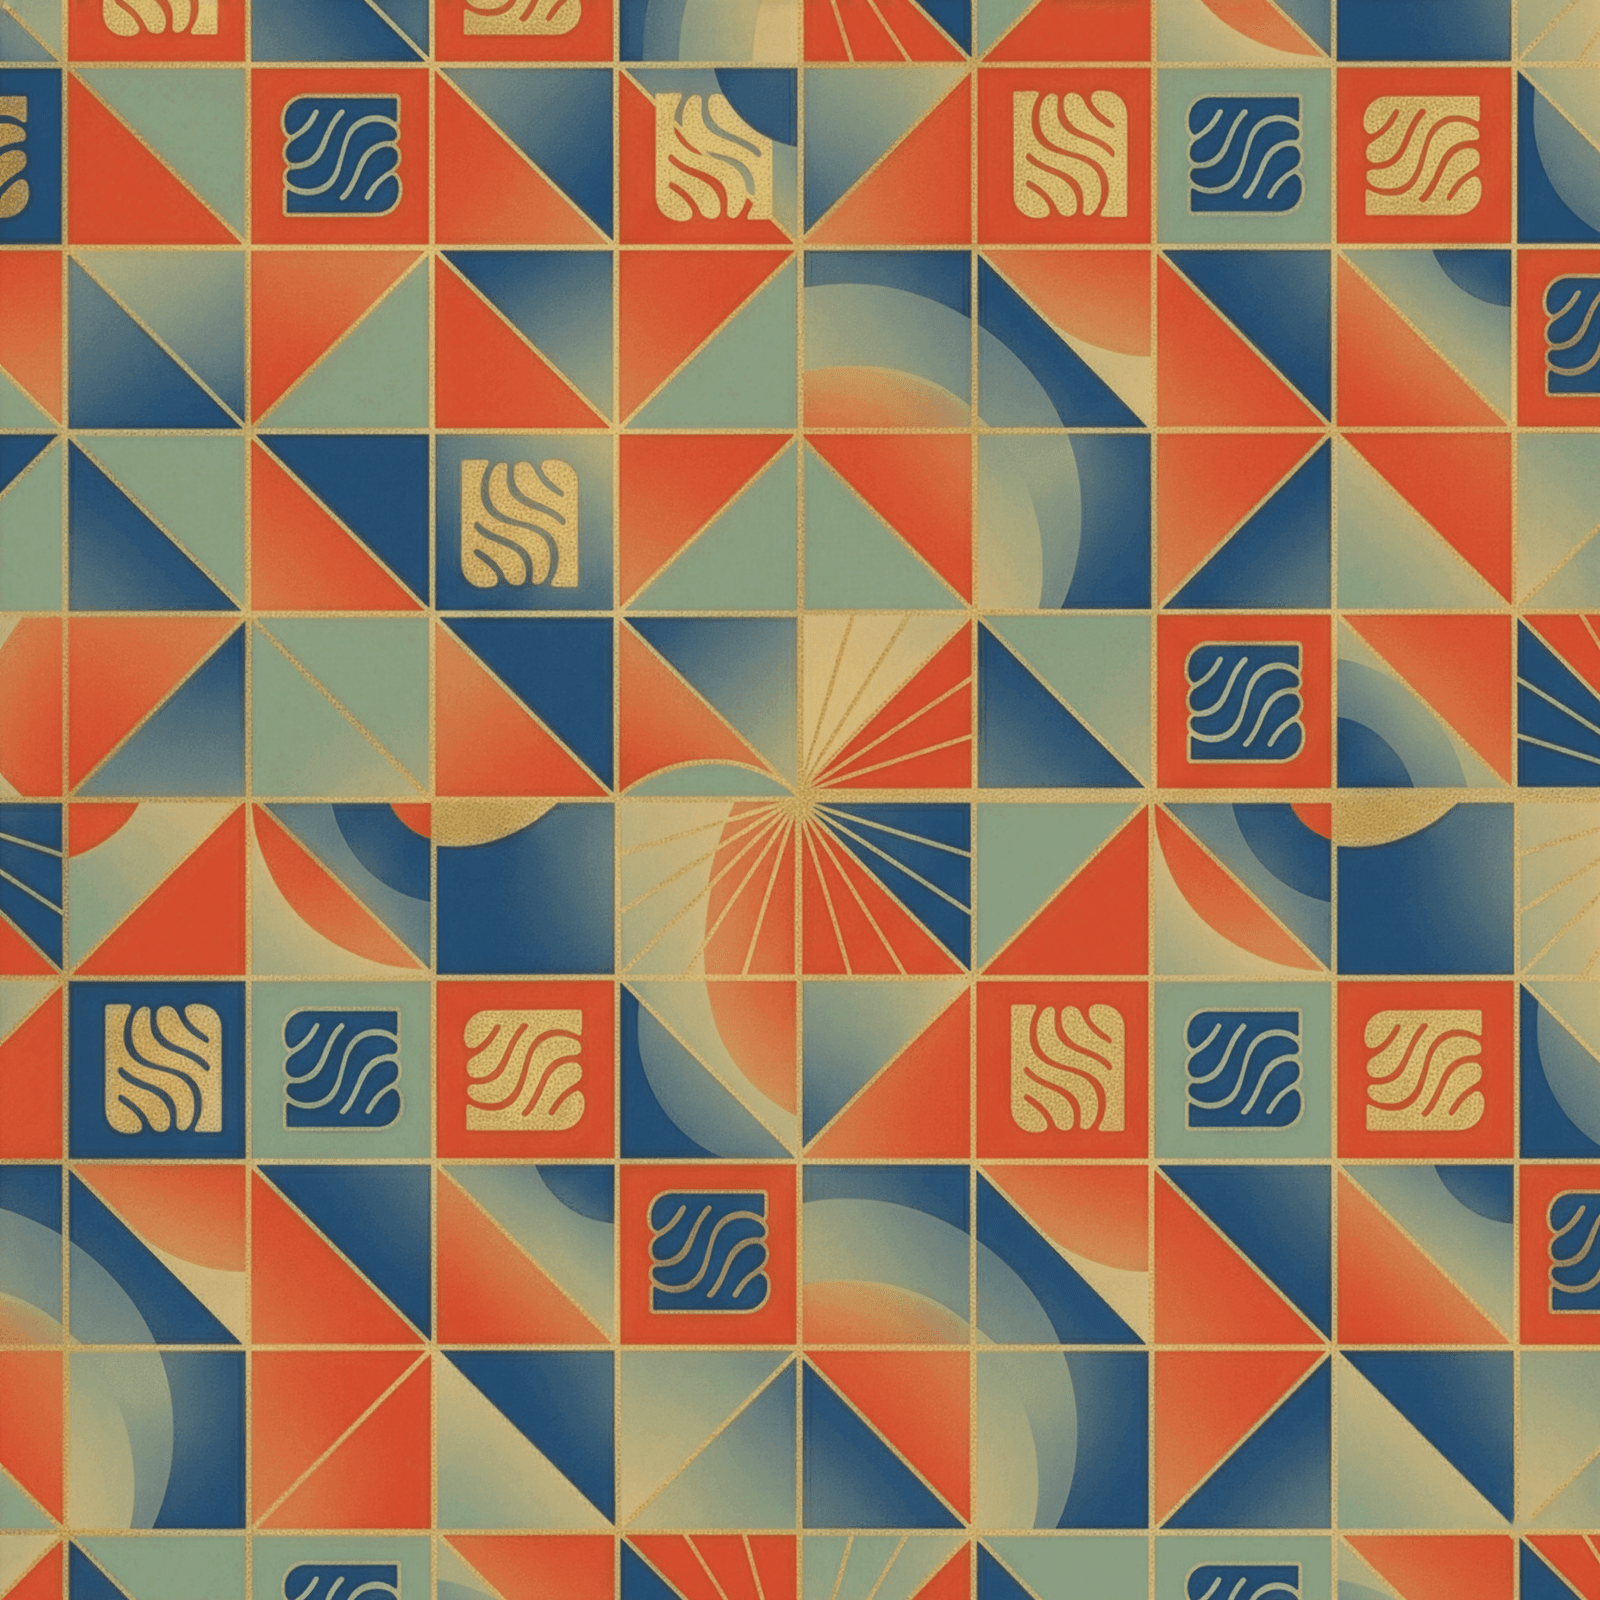
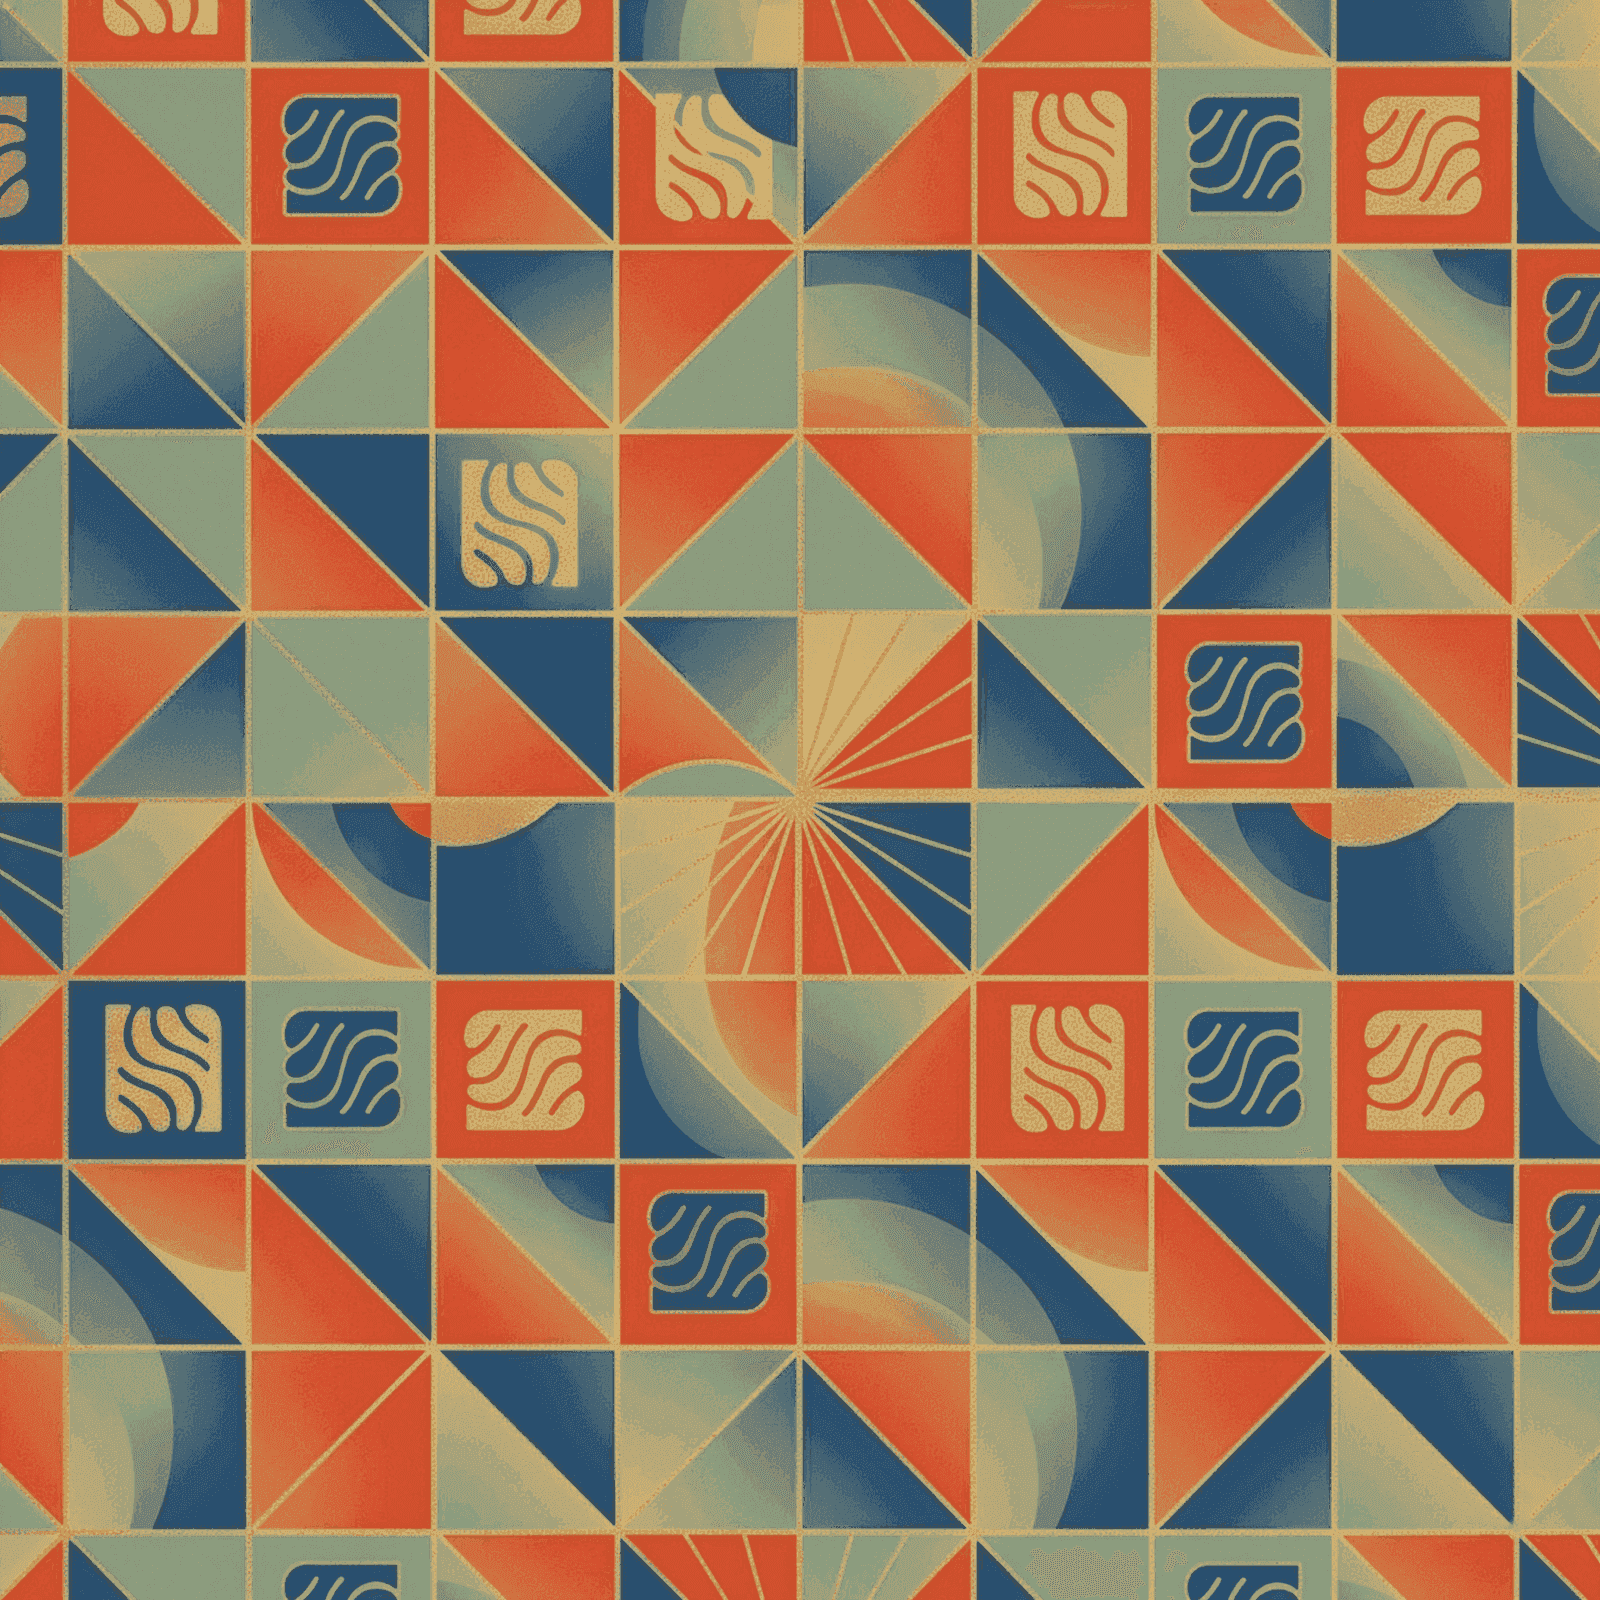
Replace grainy background image with a new WebP format; add multiple new rental images and implement Private Rentals section on the landing page. Update global styles for smooth scrolling to the new section.

diff --git a/apps/landing-page/src/styles/global.css b/apps/landing-page/src/styles/global.css
@@ -245,12 +245,14 @@
   #membership,
   #events,
   #group-booking,
+  #private-rentals,
   #faq,
   #signup,
   [data-section="about"],
   [data-section="membership"],
   [data-section="events"],
   [data-section="group-booking"],
+  [data-section="private-rentals"],
   [data-section="faq"],
   [data-section="signup"] {
     scroll-margin-top: calc(5rem + var(--banner-height, 0px)); /* 80px navbar + optional banner */
